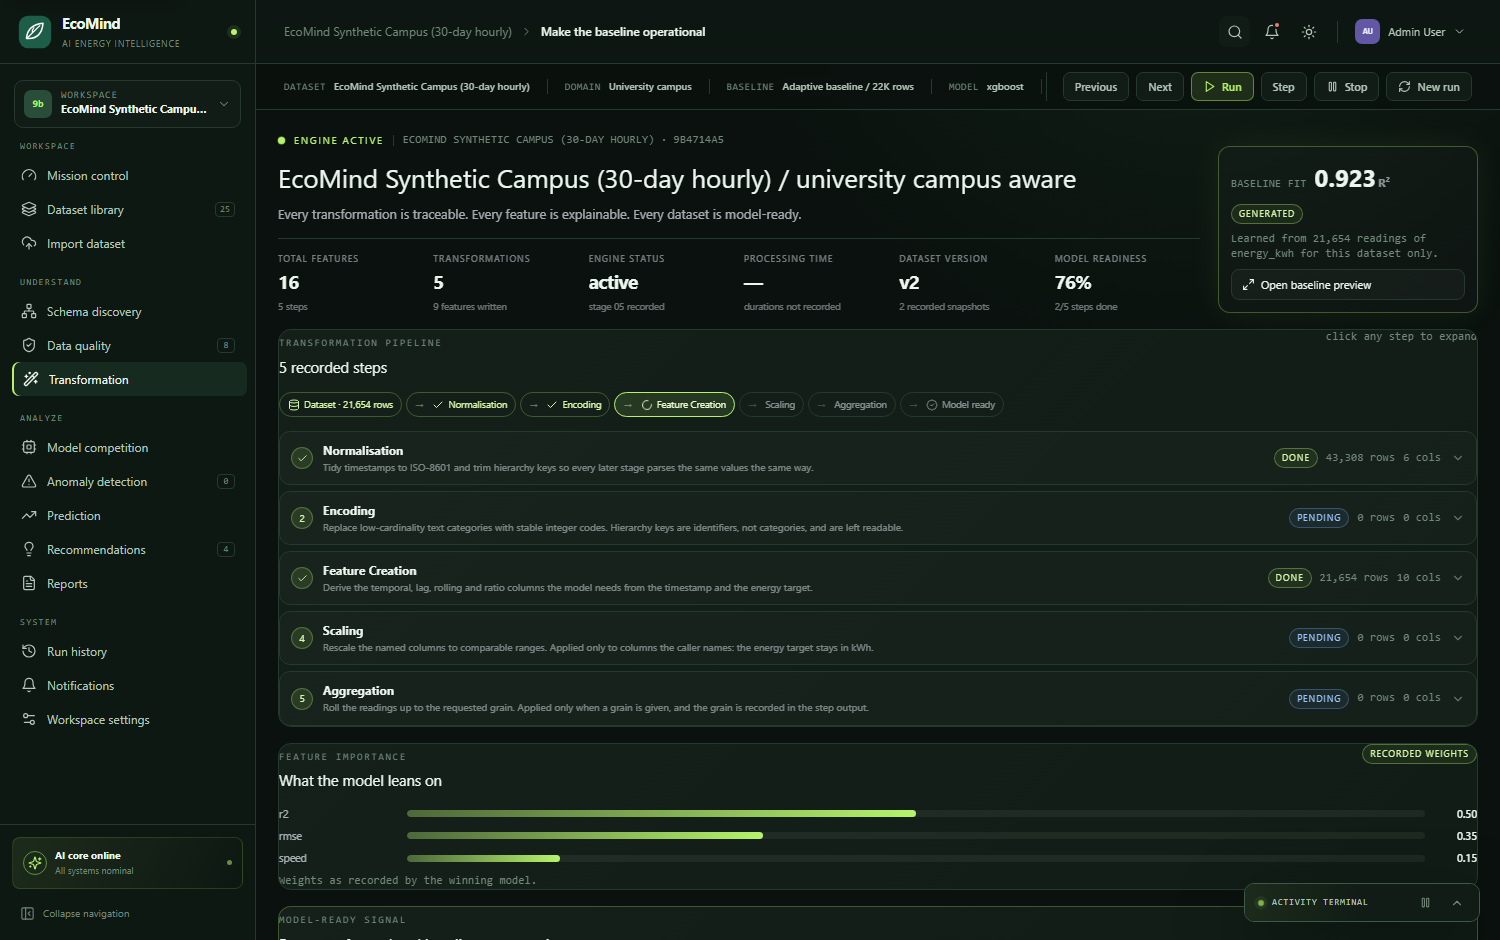
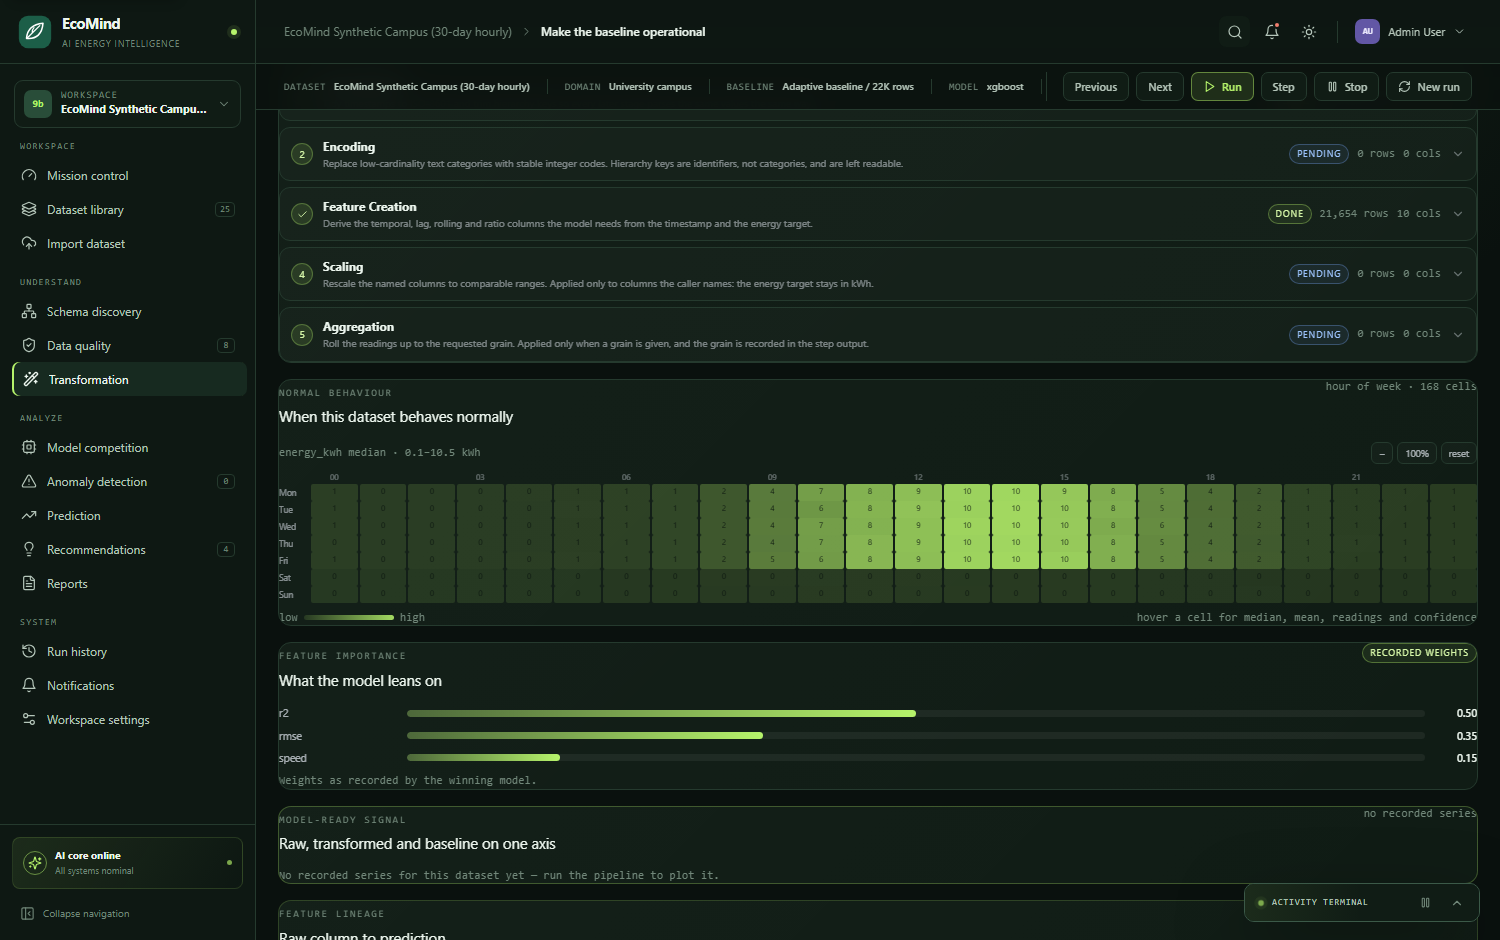
feat(ui): mount the hour-of-week normal-behaviour heatmap on transformation
The Heat component and its .tl-heat styles survived the transformation
rebuild, but nothing rendered it: `cells` was still computed from the
recorded baseline and then never used, so the dataset's normal behaviour —
the profile anomalies are judged against — was invisible in the app.

Wrap it in a NORMAL BEHAVIOUR panel between the recorded steps and feature
importance, showing the target median range, the per-cell medians with hover
detail, and an honest empty state when no baseline has been recorded yet.
Refresh the README transformation screenshot to show it.

tsc --noEmit and vite build both clean; 168 cells render from the seeded
baseline with no empty cells.

🤖 Generated with Codebuff

diff --git a/frontend/client/src/components/shell/TransformLab.tsx b/frontend/client/src/components/shell/TransformLab.tsx
@@ -740,6 +740,27 @@ export function TransformLab({
 
       </div>
 
+      {/* Normal behaviour ------------------------------------------- */}
+      <section className="panel tl-behaviour">
+        <div className="tl-head">
+          <div>
+            <span className="section-eyebrow">NORMAL BEHAVIOUR</span>
+            <h2>When this dataset behaves normally</h2>
+          </div>
+          <span className="mono-note">
+            hour of week · {cells.length ? `${cells.length} cells` : "no baseline"}
+          </span>
+        </div>
+        {cells.length ? (
+          <Heat cells={cells} unit={unit} target={baseline?.target || targetName} />
+        ) : (
+          <p className="mono-note">
+            No hour-of-week baseline has been recorded for this dataset yet — run the baseline stage and this
+            profile fills in from the recorded medians.
+          </p>
+        )}
+      </section>
+
       {/* Feature importance ---------------------------------------- */}
       <section className="panel tl-importance">
           <div className="tl-head">

diff --git a/README.md b/README.md
@@ -58,8 +58,8 @@ from the app at 1500×940 — nothing staged, nothing redrawn.
 
 | Mission control | Transformation |
 |---|---|
-| ![Mission control: ten stages recorded, quality score, anomalies and the selected baseline](docs/figures/screenshot-mission-control.png) | ![Transformation: five recorded steps, feature importance and feature lineage](docs/figures/screenshot-transformation.png) |
-| **Mission control** — stage completion, data-quality score, anomaly count, baseline version and the chosen model, all read from the recorded run. | **Transformation** — five recorded steps with field-level before/after, the winning model's feature weights, and the lineage from raw column to prediction. |
+| ![Mission control: ten stages recorded, quality score, anomalies and the selected baseline](docs/figures/screenshot-mission-control.png) | ![Transformation: five recorded steps, the green hour-of-week normal-behaviour heatmap and feature importance](docs/figures/screenshot-transformation.png) |
+| **Mission control** — stage completion, data-quality score, anomaly count, baseline version and the chosen model, all read from the recorded run. | **Transformation** — five recorded steps with field-level before/after, the hour-of-week normal-behaviour heatmap, the winning model's feature weights, and the lineage from raw column to prediction. |
 | **Recommendations** | **Prediction** |
 | ![Recommendations: 33 ranked actions with energy, cost, carbon and payback, beside a priority matrix](docs/figures/screenshot-recommendations.png) | ![Prediction: observed history, projected load and the confidence band for a seven-day horizon](docs/figures/screenshot-prediction.png) |
 | **Recommendations** — ranked actions with their own energy, cost, carbon and payback, plus the impact-versus-effort matrix. | **Prediction** — observed history, projected load and the confidence band, with the naive hour-of-week baseline to compare against. |
